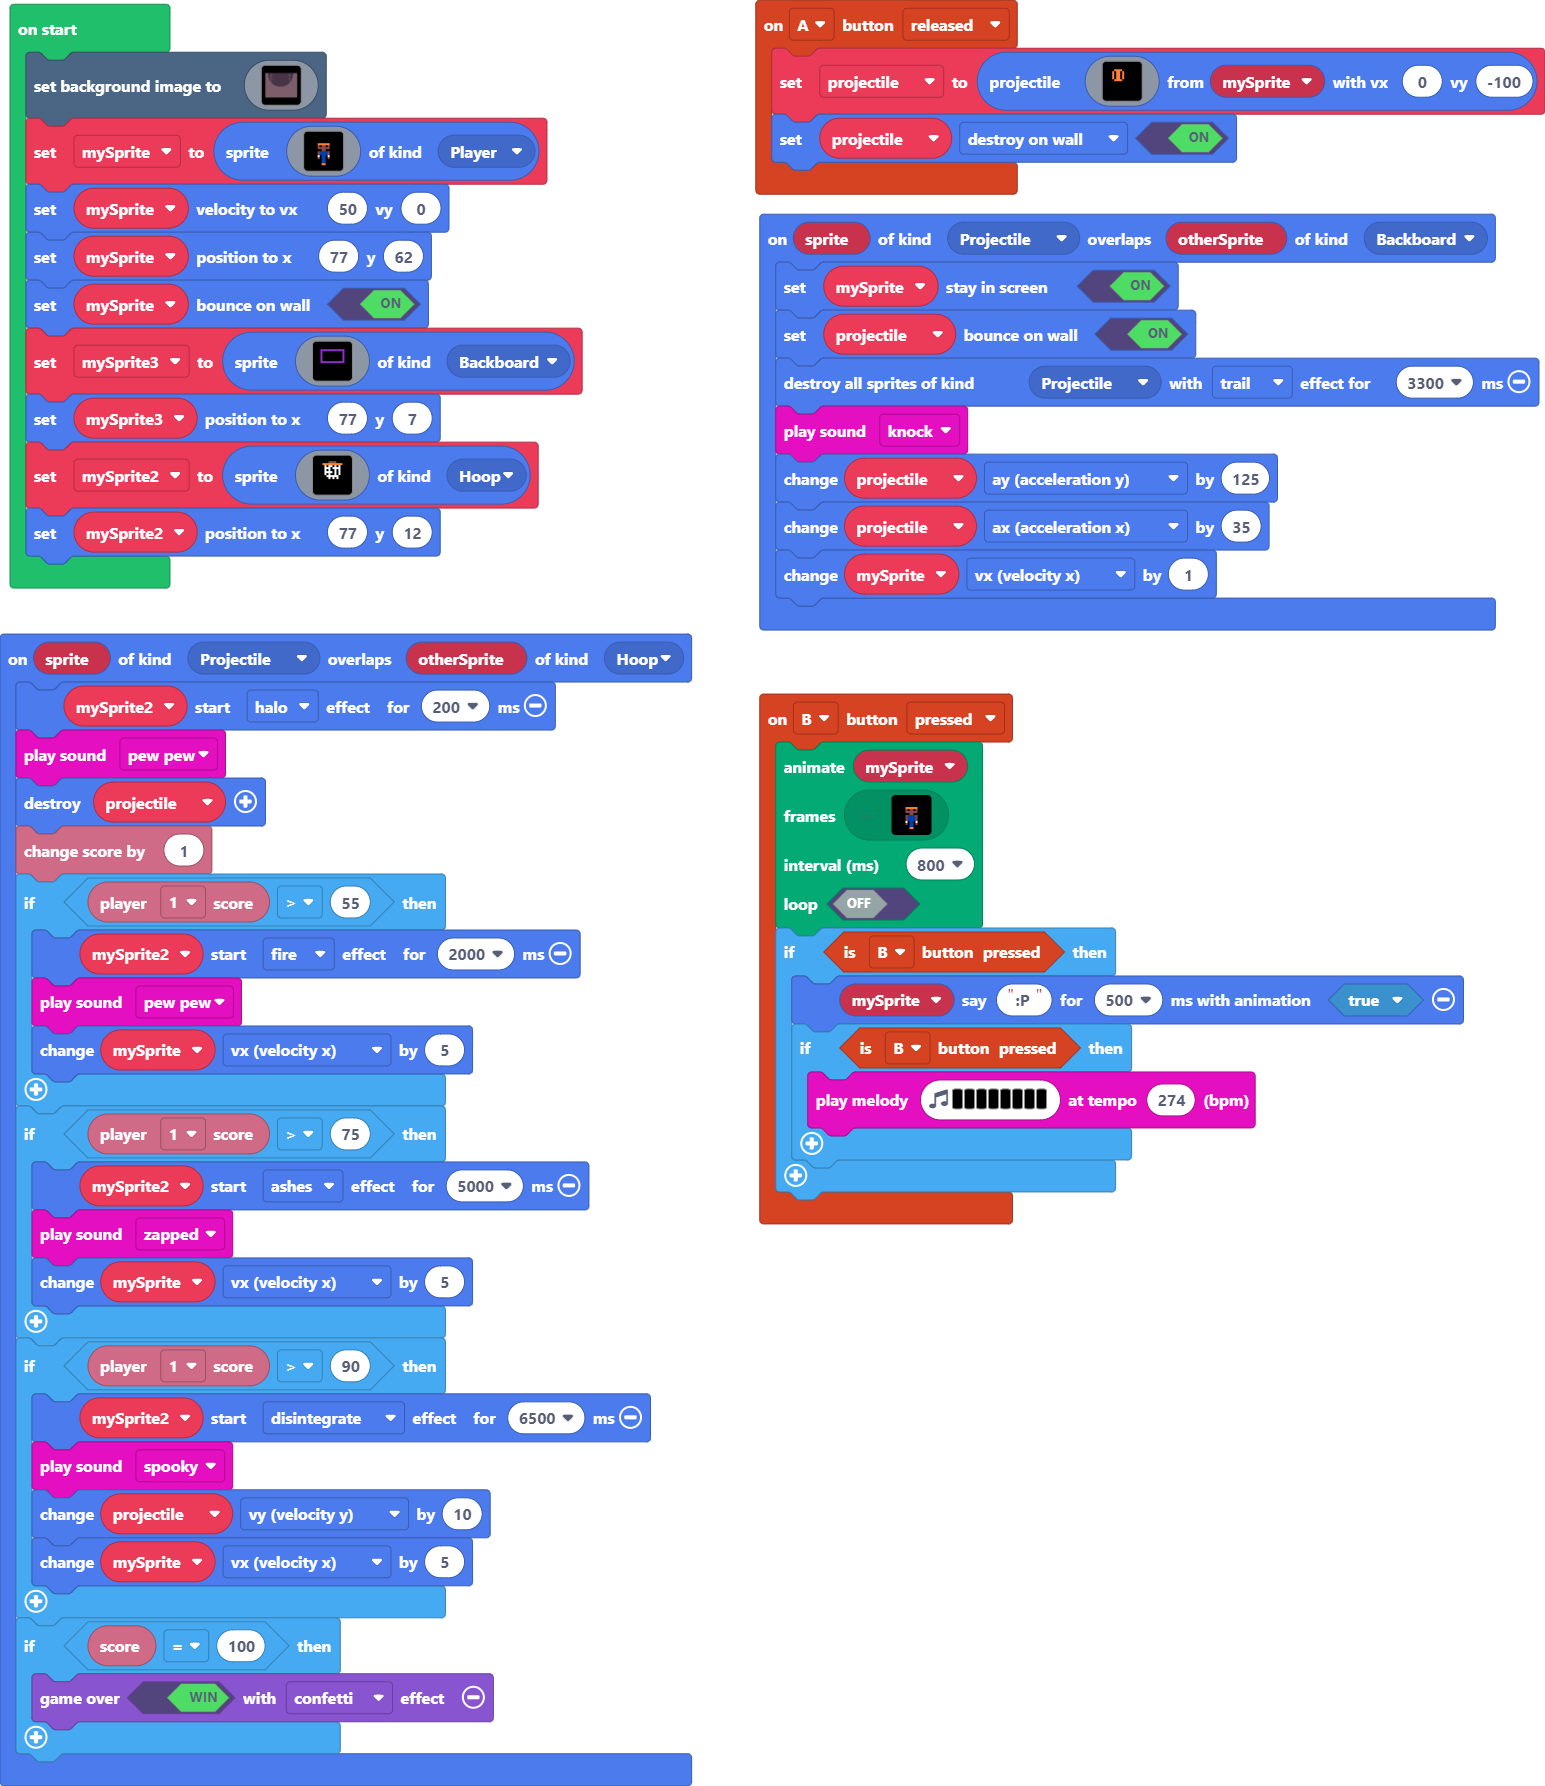
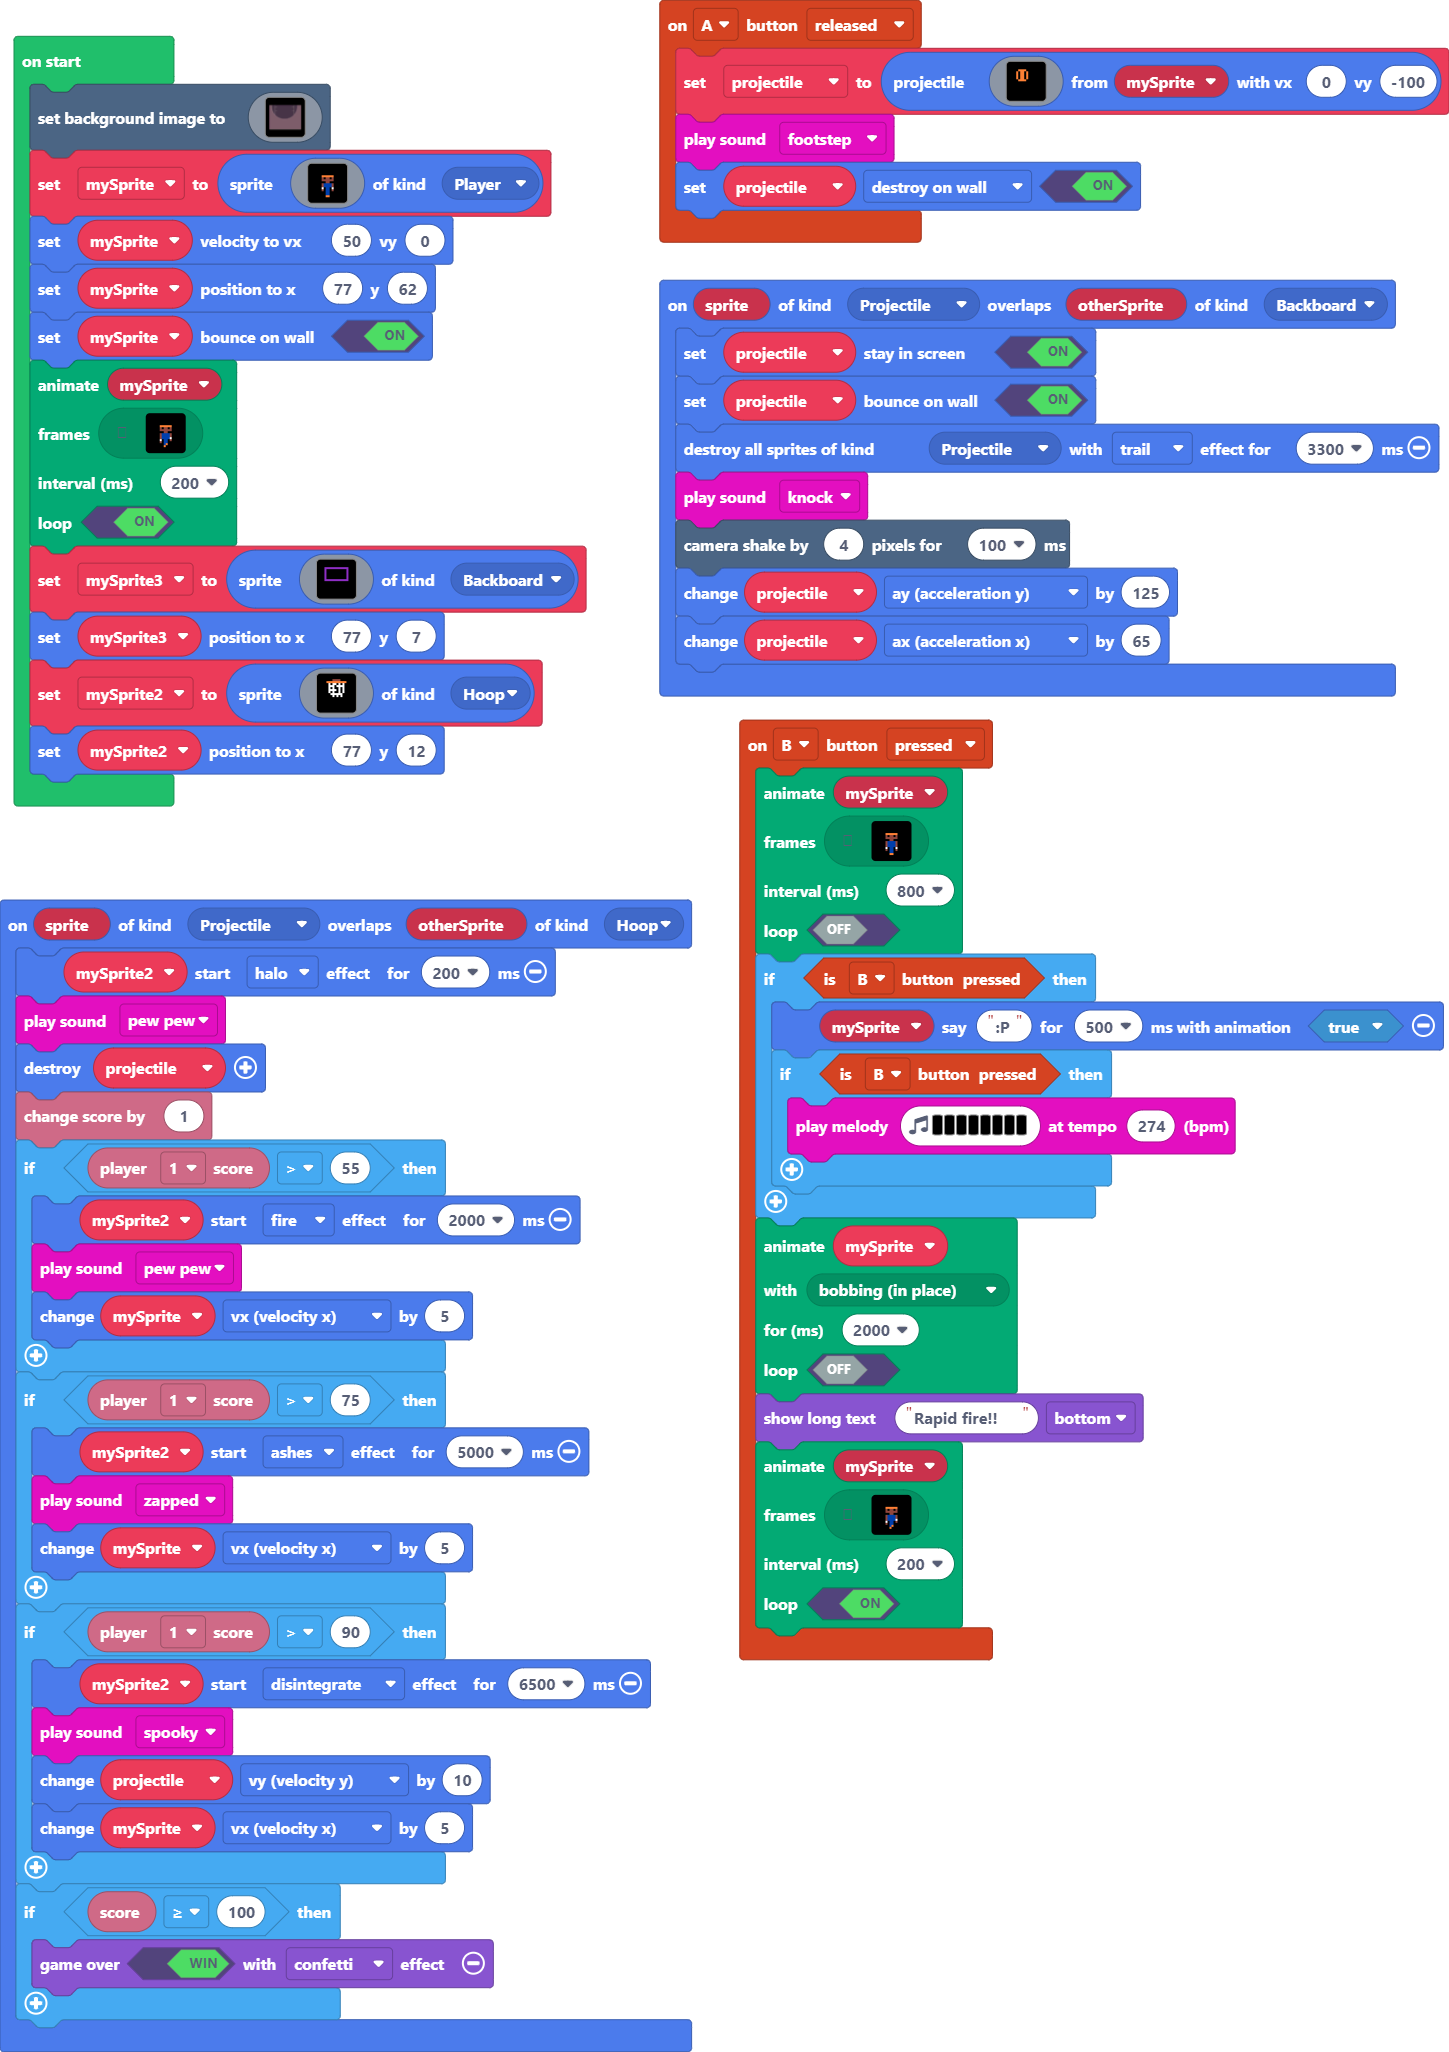
Screen shake, walk animations, special shot, and projectile sound

diff --git a/main.ts b/main.ts
@@ -67,6 +67,19 @@ controller.B.onEvent(ControllerButtonEvent.Pressed, function () {
             music.playMelody("G F C G F C C5 C5 ", 274)
         }
     }
+    animation.runMovementAnimation(
+    mySprite,
+    animation.animationPresets(animation.bobbing),
+    2000,
+    false
+    )
+    game.showLongText("Rapid fire!!", DialogLayout.Bottom)
+    animation.runImageAnimation(
+    mySprite,
+    assets.animation`Movement`,
+    200,
+    true
+    )
 })
 sprites.onOverlap(SpriteKind.Projectile, SpriteKind.Hoop, function (sprite, otherSprite) {
     mySprite2.startEffect(effects.halo, 200)
@@ -89,22 +102,23 @@ sprites.onOverlap(SpriteKind.Projectile, SpriteKind.Hoop, function (sprite, othe
         projectile.vy += 10
         mySprite.vx += 5
     }
-    if (info.score() == 100) {
+    if (info.score() >= 100) {
         game.over(true, effects.confetti)
     }
 })
 controller.A.onEvent(ControllerButtonEvent.Released, function () {
     projectile = sprites.createProjectileFromSprite(assets.image`Basketball`, mySprite, 0, -100)
+    music.footstep.play()
     projectile.setFlag(SpriteFlag.DestroyOnWall, true)
 })
 sprites.onOverlap(SpriteKind.Projectile, SpriteKind.Backboard, function (sprite, otherSprite) {
-    mySprite.setStayInScreen(true)
+    projectile.setStayInScreen(true)
     projectile.setBounceOnWall(true)
     sprites.destroyAllSpritesOfKind(SpriteKind.Projectile, effects.trail, 3300)
     music.knock.play()
+    scene.cameraShake(4, 100)
     projectile.ay += 125
-    projectile.ax += 35
-    mySprite.vx += 1
+    projectile.ax += 65
 })
 let projectile: Sprite = null
 let mySprite2: Sprite = null
@@ -114,6 +128,12 @@ mySprite = sprites.create(assets.image`Player 1`, SpriteKind.Player)
 mySprite.setVelocity(50, 0)
 mySprite.setPosition(77, 62)
 mySprite.setBounceOnWall(true)
+animation.runImageAnimation(
+mySprite,
+assets.animation`Movement`,
+200,
+true
+)
 let mySprite3 = sprites.create(assets.image`Backboard`, SpriteKind.Backboard)
 mySprite3.setPosition(77, 7)
 mySprite2 = sprites.create(assets.image`Hoop`, SpriteKind.Hoop)

diff --git a/images.g.ts b/images.g.ts
@@ -227,7 +227,59 @@ dddddddddddddddddddddddddddddddddddddddddddddddddddddddddddddddddddddddddddddddd
 
     helpers._registerFactory("animation", function(name: string) {
         switch(helpers.stringTrim(name)) {
-
+            case "Movement":
+            case "anim1":return [img`
+. . . . . . . . . . . . . . . . 
+. . . . . . . . . . . . . . . . 
+. . . . . . . . . . . . . . . . 
+. . . . . f f f f f f . . . . . 
+. . . . . 4 4 4 4 4 4 . . . . . 
+. . . . . e f e e f e . . . . . 
+. . . . . e e e e e e . . . . . 
+. . . . . . . e e . . . . . . . 
+. . . . . e 8 8 8 8 e . . . . . 
+. . . . . e 8 8 8 8 e . . . . . 
+. . . . . e 8 8 8 8 1 . . . . . 
+. . . . . 1 . 8 8 . e . . . . . 
+. . . . . e . 8 8 . . . . . . . 
+. . . . . . . 8 4 . . . . . . . 
+. . . . . . . 4 . . . . . . . . 
+. . . . . . . . . . . . . . . . 
+`, img`
+. . . . . . . . . . . . . . . . 
+. . . . . . . . . . . . . . . . 
+. . . . . . . . . . . . . . . . 
+. . . . . f f f f f f . . . . . 
+. . . . . 4 4 4 4 4 4 . . . . . 
+. . . . . e f e e f e . . . . . 
+. . . . . e e e e e e . . . . . 
+. . . . . . . e e . . . . . . . 
+. . . . . e 8 8 8 8 e . . . . . 
+. . . . . e 8 8 8 8 e . . . . . 
+. . . . . 1 8 8 8 8 e . . . . . 
+. . . . . e . 8 8 . 1 . . . . . 
+. . . . . . . 8 8 . e . . . . . 
+. . . . . . . 4 8 . . . . . . . 
+. . . . . . . . 4 . . . . . . . 
+. . . . . . . . . . . . . . . . 
+`, img`
+. . . . . . . . . . . . . . . . 
+. . . . . . . . . . . . . . . . 
+. . . . . . . . . . . . . . . . 
+. . . . . f f f f f f . . . . . 
+. . . . . 4 4 4 4 4 4 . . . . . 
+. . . . . e f e e f e . . . . . 
+. . . . . e e e e e e . . . . . 
+. . . . . . . e e . . . . . . . 
+. . . . . e 8 8 8 8 e . . . . . 
+. . . . . e 8 8 8 8 e . . . . . 
+. . . . . e 8 8 8 8 e . . . . . 
+. . . . . 1 . 8 8 . 1 . . . . . 
+. . . . . e . 8 8 . e . . . . . 
+. . . . . . . 8 8 . . . . . . . 
+. . . . . . . 4 4 . . . . . . . 
+. . . . . . . . . . . . . . . . 
+`];
         }
         return null;
     })
